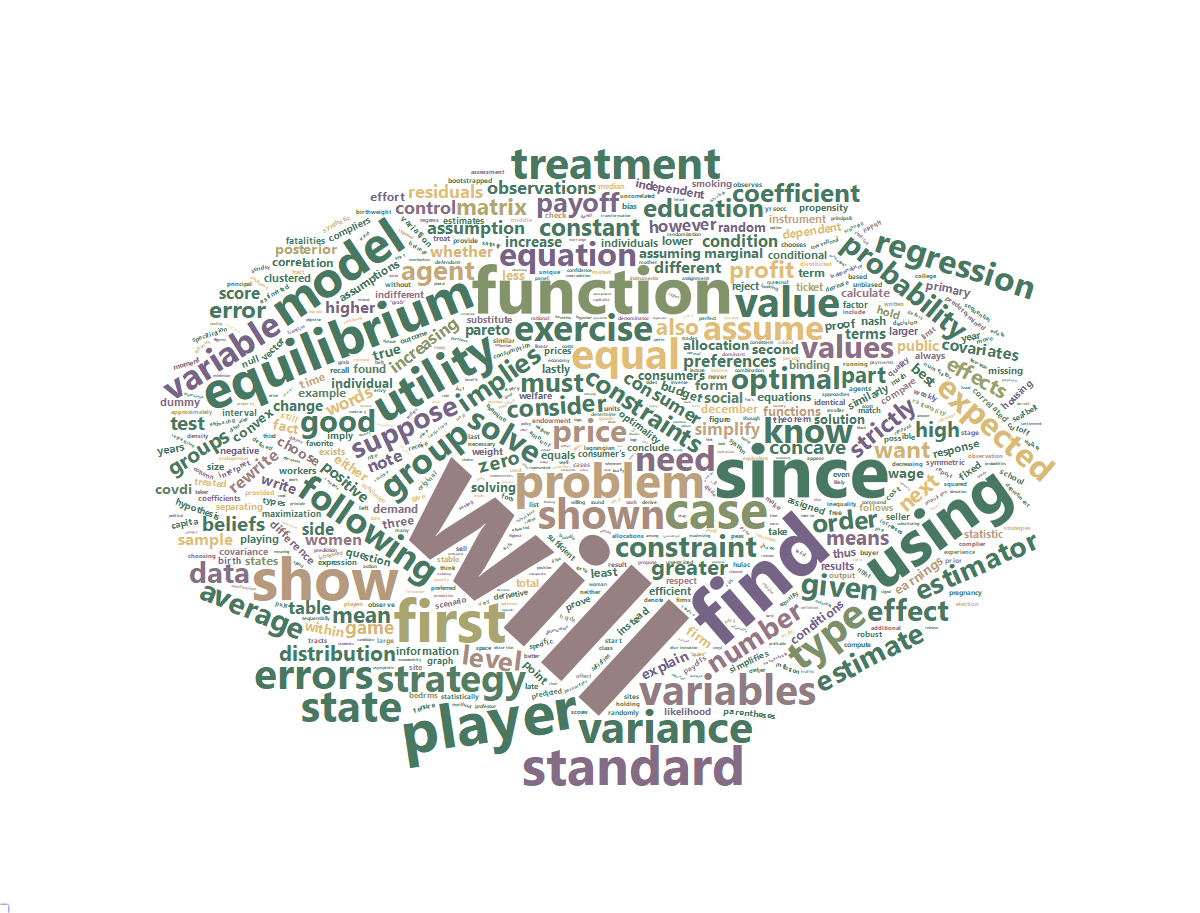
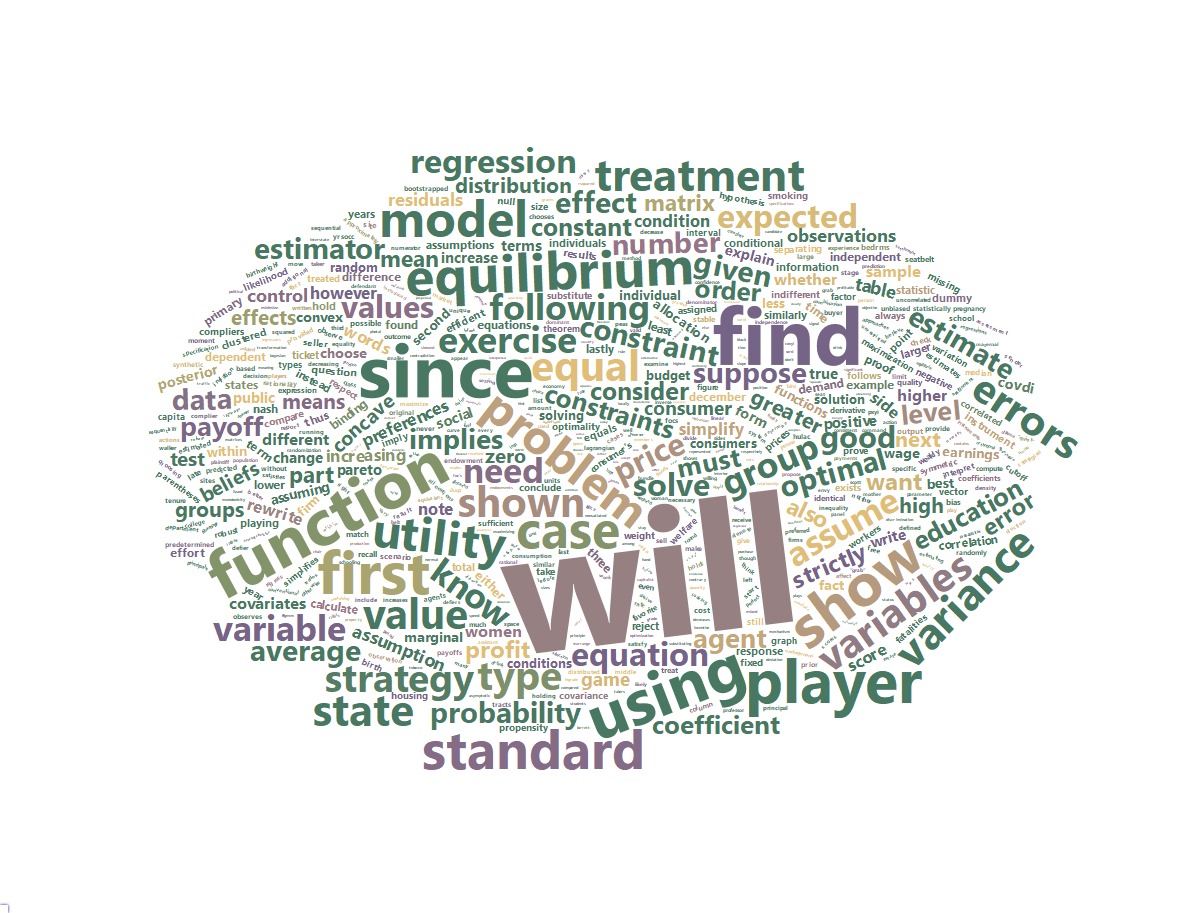
Minor Typesetting

Changed region(s): [[0.1233, 0.1533, 0.8942, 0.8587]]

diff --git a/problemsets.html b/problemsets.html
@@ -318,9 +318,11 @@ $(document).ready(function () {
 
 
 <p> </p>
-<div id="visualizing-problemsets" class="section level2">
-<h2>Visualizing Problemsets</h2>
-<p>The following figures are visualizations of every single problemset I poured over while completing the Harris PhD core curriculum, starting with a wordcloud! If you hover over a word, you can see exactly how many times I typed that specific word into LaTex during the first year of my program. I was a little suprised not to see concavity featured more prominently considering how much time I spent checking second order conditions.</p>
+<div id="a-day-in-the-life-of-a-first-year-harris-phd" class="section level2">
+<h2>A Day in the Life of a First Year Harris PhD</h2>
+<p>The following figures are visualizations of every single problemset I poured over while completing the Harris PhD core curriculum. Specifically, these are the problemsets I worked through while studying Micreconomics, Econometrics, and Game Theory.</p>
+<p>First up is a wordcloud! If you hover over a word, you can see exactly how many times I typed that specific word into LaTex during the first year of my program. For example, I typed the word “function” 188 times!</p>
+<p>I was a little suprised not to see concavity featured more prominently considering how much time I spent checking second order conditions.</p>
 <div id="htmlwidget-1c975e2099b290371eff" style="width:672px;height:480px;" class="wordcloud2 html-widget"></div>
 <script type="application/json" data-for="htmlwidget-1c975e2099b290371eff">{"x":{"word":["lagrangian","consumer’s","problem","price","equals","optimality","constraints","shown","solve","will","need","consider","cases","consumer","case","must","equal","zero","simplify","since","implies","solving","budget","constraint","conclude","whenever","ppmc","group","members","december","exercise","goods","across","consumers","utility","function","logt","logq","amount","social","endowment","units","suppose","preferences","represented","welfare","following","form","weighted","weight","greater","optimal","endowments","examine","find","allocation","know","functions","undefined","also","locally","nonsatiated","increasing","lastly","concave","focs","necessary","sufficient","system","equations","pareto","allocations","economy","assume","good","walrasian","equilibrium","first","demand","note","prices","policy","rather","bundle","assigned","efficient","willing","figure","list","well","describe","hint","every","consumption","trade","theorem","choice","least","choices","makes","second","allocated","among","three","maximize","individual","respectively","total","identical","either","positive","binding","solution","order","setting","derivative","respect","equation","substitute","value","original","words","characterize","found","maximizing","equivalent","strictly","upon","highest","divide","look","imply","true","values","relationship","elements","determine","means","inequality","never","similar","exists","similarly","part","ratio","make","contradiction","take","example","question","different","women","show","benefit","result","receive","preferred","woman","want","scenario","propose","choose","favorite","accept","stable","match","neither","round","prove","unique","denote","given","prefer","less","outcome","follows","assuming","reject","already","last","thus","number","shows","change","agent","agents","position","side","using","results","used","instead","give","times","recall","production","hulac","peas","workers","stay","away","work","unit","capitalist","profit","wage","indifferent","purchase","addition","just","firm","even","define","holds","proof","contrary","individuals","time","though","finally","house","think","finding","step","possible","running","maximization","derive","firstorder","optimum","foc’s","optimization","equality","quantity","fact","inverse","lecture","valorem","expression","market","increase","showed","received","start","next","sides","specific","terms","compare","previous","looking","firms","level","revenue","whether","write","marginal","costs","constant","decreasing","increases","higher","introduced","output","cost","decreases","class","principle","perfect","discrimination","still","seller","linear","buyer","income","conditions","interior","observe","bind","rule","normal","explain","monotonic","much","high","without","rewrite","sets","type","sell","assumptions","ticket","combination","model","distortion","quality","traveler","incentive","lower","unrestricted","mean","however","types","difference","condition","rearrange","include","rationality","variables","appear","weakly","slack","satisfy","satisfies","<U+2202>uqz","left","hand","convex","slope","defined","assumption","nash","factor","curve","approaches","alternative","term","full","information","lowest","symmetric","best","response","game","produce","definition","space","conditional","point","maximum","decrease","public","provided","provide","substituting","simplifies","free","mechanism","tion","payments","larger","calculate","dominant","strategy","report","payoff","wants","payoffs","negative","pivotal","playing","players","distributed","objective","player","hold","selection","uniformly","interval","graph","always","middle","population","education","effect","bayesian","offer","probability","separating","beliefs","better","equilibria","profitable","earn","expected","affect","believe","earnings","person","identify","rate","denominator","numerator","trades","interpret","interpreted","meaning","envy","else","vector","transformation","complete","transitive","mixed","independence","treat","rational","loss","random","variable","quadratic","decision","squared","large","clearly","matrix","otherwise","period","answer","consistent","table","check","many","parameter","distribution","vary","chooses","states","apply","property","right","third","line","analysis","problems","estimates","estimate","effects","covariance","squares","estimator","regressors","fixed","within","groups","unbiased","observations","variance","dependent","heteroskedasticity","bias","instruments","stage","endogenous","variation","written","matrices","valid","coefficients","predicted","contains","estimating","independent","limit","treatment","average","treated","covariates","assignment","untreated","control","monotonicity","regressor","deviation","idempotent","correlated","instrument","correlation","coefficient","data","conventional","default","clustered","sizes","inflation","compared","size","sample","smaller","errors","observation","uncorrelated","standard","regression","black","higrade","obtain","robust","panel","based","test","error","experience","candidate","regress","additional","quarterly","holding","statistically","confidence","command","hypothesis","approximately","statistic","estimated","freedom","null","compute","residuals","density","orthogonal","likelihood","likely","play","students","observed","prior","posterior","samples","credible","median","probabilities","late","briefly","compliers","complier","defier","defiers","observable","randomization","status","containing","randomly","option","minimize","households","column","household","added","birth","year","school","takers","taker","evidence","dataset","asymptotic","regressions","housing","tract","site","state","dummy","tracts","rsquared","sites","score","scores","close","cutoff","yrsocc","bedrms","parentheses","diploma","bins","specification","specifications","significant","primary","don’t","matching","predetermined","vard","varxi","covdi","covd","covxi","covyi","propensity","pxyi","maternal","smoking","infant","missing","tobacco","drink","birthweight","pregnancy","grams","years","mother","method","observing","bootstrapped","weak","belt","traffic","fatalities","capita","seatbelt","seat","college","inches","interstate","speed","moment","choosing","<U+03B8>^gmm","synthetic","preperiod","grade","prediction","schooling","move","disney","signal","actions","observes","action","grab","”grab”","plays","assistant","professor","department","chair","tenure","effort","pooling","assessment","strategies","sequential","sequentially","hungry","”squawk”","”quiet”","defendant","plaintiff","settlement","sender","principal","principal’s","lizard","release","election","wisconsin","scott","walker","barrett","rights","political","estate"],"freq":[18,26,137,91,31,27,75,119,90,511,99,72,21,54,147,78,118,57,48,210,79,37,38,84,28,12,11,102,12,33,106,15,9,38,136,188,10,10,18,42,19,20,81,47,12,29,101,39,11,29,63,85,12,18,226,40,99,37,12,66,11,10,49,33,56,20,16,24,16,34,42,17,13,100,88,12,150,171,34,48,27,11,9,14,29,32,15,24,21,14,9,10,14,18,9,25,12,33,9,11,39,12,10,33,17,36,11,32,22,38,43,35,38,74,14,22,25,94,29,120,20,47,9,35,11,15,67,9,10,13,10,28,43,92,10,9,13,60,16,20,20,28,31,65,13,20,10,28,33,32,46,45,169,11,20,16,16,13,68,23,13,41,24,9,24,23,17,15,27,17,16,85,12,37,21,29,40,30,9,19,35,83,14,43,77,19,10,49,182,30,14,32,20,11,23,10,19,18,27,10,9,15,13,10,67,39,27,11,9,14,38,23,11,16,34,11,31,35,14,12,9,16,9,9,24,16,26,14,12,12,12,10,18,11,40,13,14,9,23,16,43,11,11,21,62,13,21,42,27,10,14,16,78,10,46,44,39,15,72,17,17,45,15,24,23,11,17,12,14,10,26,25,13,21,15,38,11,21,10,12,10,41,9,20,59,21,49,11,116,20,34,31,13,143,12,23,9,10,33,13,66,47,25,34,49,11,17,20,119,13,22,9,16,16,14,16,11,40,10,17,51,33,25,14,14,9,34,9,32,9,22,40,32,53,11,12,16,31,30,9,18,42,19,20,10,25,19,10,11,13,31,35,13,112,16,76,9,20,27,12,31,16,17,11,174,30,10,9,25,25,29,18,15,73,86,11,9,82,27,57,18,10,10,12,95,16,16,39,14,9,17,15,16,14,22,9,10,13,12,28,12,10,12,11,15,22,15,9,36,102,9,16,17,19,9,65,14,12,11,15,51,24,13,13,60,14,20,33,9,11,16,18,9,9,9,25,81,61,29,9,83,12,27,41,60,21,51,128,33,9,22,14,19,13,26,16,10,13,23,21,11,13,35,20,128,86,27,45,14,9,50,12,9,12,9,25,31,33,75,81,14,11,30,11,17,12,27,46,13,119,17,16,153,96,10,10,9,22,14,19,56,67,18,11,18,18,9,17,19,15,15,25,18,30,19,9,29,20,51,16,10,29,14,15,12,9,19,40,9,9,23,10,22,10,29,17,16,15,10,13,12,12,19,12,12,10,20,9,13,25,27,23,11,18,9,9,10,14,28,16,24,125,30,19,12,19,49,18,9,22,20,24,25,11,13,17,10,10,34,11,9,19,10,12,40,10,9,11,29,17,14,29,12,27,12,10,16,19,10,30,14,13,9,21,11,15,12,25,25,24,13,16,12,10,11,21,17,10,20,9,11,13,14,16,10,12,16,19,14,13,14,10,13,13,18,10,19,35,12,17,16,18,14,9,9,13,15,13,12,16,18,14,10,11,18,9,14,17,10,10,10,14],"fontFamily":"Segoe UI","fontWeight":"bold","color":["#E0BE79","#766487","#92996D","#D1B17A","#497862","#B5AA72","#748C68","#7D6886","#497862","#A6A370","#497862","#497862","#728B68","#8A7584","#497862","#497862","#497862","#497862","#497862","#497862","#497862","#497862","#497862","#917286","#497862","#497862","#497862","#497862","#766487","#ABA570","#796586","#7A6686","#E0BE79","#766487","#497862","#E0BE79","#497862","#497862","#497862","#497862","#497862","#497862","#497862","#497862","#497862","#497862","#497862","#6A8767","#497862","#4F7B63","#497862","#8B6F86","#497862","#E0BE79","#497862","#497862","#497862","#497862","#766487","#806D85","#846B86","#497862","#497862","#497862","#CAB475","#836F85","#517B63","#497862","#DAB979","#497862","#C5A77C","#497862","#A2A16F","#766487","#8C7784","#857184","#497862","#766487","#497862","#497862","#497862","#497862","#CDAE7B","#E0BE79","#E0BE79","#766487","#497862","#497862","#E0BE79","#766487","#497862","#5B8064","#497862","#497862","#806A86","#C0AF74","#997786","#497862","#497862","#786586","#497862","#497862","#E0BE79","#927386","#497862","#766487","#86946B","#E0BE79","#497862","#766487","#497862","#497862","#497862","#497862","#497862","#497862","#E0BE79","#988182","#497862","#497862","#497862","#497862","#497862","#9A7886","#8A6F86","#497862","#E0BE79","#497862","#497862","#497862","#766487","#497862","#766487","#A88E80","#867284","#497862","#497862","#768C68","#766487","#497862","#497862","#786686","#497862","#E0BE79","#497862","#497862","#497862","#597F64","#847085","#D0B07B","#E0BE79","#497862","#8E986C","#497862","#497862","#B1A871","#E0BE79","#497862","#C2B074","#8F7186","#497862","#497862","#BC9F7D","#497862","#4C7962","#497862","#766487","#497862","#497862","#497862","#497862","#497862","#A7A470","#497862","#957F82","#497862","#E0BE79","#907286","#766487","#497862","#5E8265","#497862","#766487","#9A7786","#E0BE79","#497862","#497862","#497862","#766487","#497862","#766487","#497862","#497862","#497862","#497862","#497862","#497862","#497862","#9C7986","#E0BE79","#CFB676","#766487","#E0BE79","#978082","#497862","#497862","#7C6986","#497862","#8E7186","#DEBD78","#7F6986","#497862","#497862","#497862","#766487","#E0BE79","#8F7286","#497862","#497862","#497862","#E0BE79","#497862","#766487","#497862","#497862","#8D7883","#786586","#766487","#E0BE79","#766487","#DEBC79","#497862","#497862","#497862","#497862","#497862","#497862","#497862","#497862","#776486","#766486","#497862","#E0BE79","#497862","#497862","#6D8967","#806986","#766487","#796686","#497862","#B4987E","#BAAC73","#E0BE79","#776486","#E0BE79","#B8AB72","#E0BE79","#E0BE79","#497862","#B6AA72","#497862","#497862","#DDBC78","#766487","#497862","#497862","#497862","#497862","#497862","#BA9D7E","#497862","#D7B67A","#766487","#497862","#497862","#497862","#766487","#497862","#497862","#497862","#497862","#497862","#497862","#497862","#497862","#E0BE79","#497862","#497862","#497862","#497862","#497862","#8A6F86","#497862","#497862","#497862","#E0BE79","#497862","#927386","#766487","#856C86","#497862","#497862","#628365","#497862","#8C7086","#497862","#497862","#497862","#497862","#497862","#497862","#E0BE79","#E0BE79","#6F8967","#497862","#E0BE79","#497862","#766487","#497862","#7E906A","#497862","#E0BE79","#497862","#497862","#497862","#497862","#D6B57A","#D2B27A","#497862","#E0BE79","#497862","#497862","#497862","#497862","#7C8F69","#E0BE79","#497862","#DBBA79","#497862","#497862","#497862","#776586","#497862","#497862","#497862","#497862","#CAAB7B","#7D6A86","#497862","#937486","#497862","#766487","#7B6786","#497862","#7E6886","#497862","#E0BE79","#497862","#497862","#E0BE79","#497862","#497862","#766486","#497862","#CCAD7B","#E0BE79","#E0BE79","#608265","#497862","#497862","#766487","#E0BE79","#766487","#497862","#856C86","#E0BE79","#E0BE79","#7D6886","#E0BE79","#497862","#BDAE73","#497862","#537C63","#497862","#7E6B85","#D6B977","#927386","#497862","#E0BE79","#678566","#497862","#766487","#497862","#497862","#766487","#497862","#796786","#497862","#497862","#497862","#497862","#497862","#497862","#E0BE79","#497862","#766487","#497862","#497862","#877384","#E0BE79","#497862","#497862","#9D7986","#497862","#766487","#497862","#AA9080","#497862","#497862","#A08881","#766487","#896E86","#497862","#E0BE79","#497862","#497862","#497862","#9A9D6E","#766487","#9B8482","#D3B37A","#967586","#497862","#CCB476","#B5997E","#497862","#497862","#4E7A62","#497862","#A28A81","#8F7286","#497862","#497862","#497862","#8B6F86","#497862","#497862","#E0BE79","#497862","#497862","#6C8867","#497862","#497862","#989D6E","#C4A67C","#497862","#497862","#B79B7E","#497862","#497862","#A58B80","#497862","#497862","#497862","#816A86","#497862","#AD927F","#497862","#497862","#766487","#497862","#638466","#497862","#E0BE79","#947486","#497862","#497862","#497862","#967586","#497862","#497862","#497862","#497862","#497862","#836B86","#497862","#497862","#497862","#766487","#497862","#497862","#8D7086","#766487","#497862","#DBBB78","#497862","#497862","#E0BE79","#766487","#E0BE79","#E0BE79","#C8A97C","#766487","#766487","#979C6D","#497862","#497862","#939A6D","#497862","#497862","#497862","#497862","#497862","#497862","#766487","#947486","#497862","#806986","#497862","#846C86","#766487","#D8BA77","#497862","#497862","#917386","#9D7986","#497862","#497862","#497862","#E0BE79","#497862","#947E82","#497862","#497862","#497862","#9C8581","#497862","#497862","#816A86","#497862","#836B86","#766487","#497862","#497862","#497862","#E0BE79","#497862","#497862","#766487","#A98F80","#E0BE79","#497862","#886E86","#497862","#497862","#C6A87C","#766487","#866D86","#9FA06F","#D9B879","#497862","#658566","#497862","#C2A47C","#497862","#497862","#497862","#497862","#967686","#497862","#DFBD79","#766487","#E0BE79","#497862","#497862","#567E64","#7C6786","#AF947F","#497862","#766487","#C5B175","#987786","#5D8165","#497862","#826A86","#497862","#497862","#497862","#766487","#B0957F","#E0BE79","#A68C80","#497862","#C9B375","#497862","#497862","#A38B80","#798E69","#E0BE79","#497862","#497862","#E0BE79","#497862","#766487","#497862","#83936A","#E0BE79","#E0BE79","#497862","#497862","#497862","#826A86","#497862","#497862","#C1A37D","#D4B877","#BB9E7D","#497862","#D4B47A","#497862","#497862","#497862","#E0BE79","#497862","#497862","#D3B877","#AC917F","#497862","#AEA771","#497862","#497862","#497862","#497862","#9E8681","#497862","#497862","#959B6D","#C9AA7B","#497862","#C3A57C","#497862","#E0BE79","#927C83","#497862","#766487","#497862","#497862","#497862","#497862","#766487","#B3977E","#766487","#497862","#497862","#AE937F","#497862","#497862","#497862","#497862","#497862","#497862","#497862","#E0BE79","#497862","#497862","#497862","#907A83","#497862","#497862","#497862","#937D83","#497862","#90996C","#E0BE79","#A9A470","#796586","#497862","#766487","#766487","#497862","#917B83","#497862","#497862","#81926A","#766487","#497862","#497862","#497862","#E0BE79","#7B6686","#E0BE79","#497862","#497862","#497862","#497862","#497862","#B1967F","#E0BE79","#977686","#497862","#497862","#497862","#497862","#497862","#497862","#497862","#766487","#766487","#766486","#497862","#497862","#497862","#497862","#896E86","#88956B","#89966B","#497862","#E0BE79","#497862","#497862","#ACA671","#497862","#C4B174","#826E85","#497862","#497862","#497862","#C7B275","#497862","#497862","#497862","#497862","#8E7983","#497862","#BBAD73","#E0BE79","#9F8781","#497862","#497862","#497862","#497862","#497862","#876D86","#497862","#497862","#497862","#E0BE79","#497862","#497862","#E0BE79","#497862","#E0BE79","#766487","#A1A06F","#CEB576","#497862","#718A68","#497862","#766487","#8C7086","#E0BE79","#E0BE79","#E0BE79","#977686","#E0BE79","#497862","#497862","#497862","#497862","#A78D80","#497862","#497862","#497862","#497862","#766487","#9A7886","#766487","#497862","#497862","#497862","#778D69","#497862","#8B966C","#497862","#766487","#497862","#497862","#766487","#497862","#497862","#80916A","#766487","#497862","#766487","#8B7684","#497862","#E0BE79","#497862","#766487","#497862","#497862","#497862","#497862","#497862","#497862","#B3A972","#497862","#497862","#997786","#497862","#497862","#766487","#587F64","#8D7186","#497862","#497862","#CBAC7B","#E0BE79","#766487","#497862","#866C86","#766487","#E0BE79","#7F6986","#766487","#A4A26F","#497862","#957586","#497862","#497862","#497862","#766487","#497862","#497862","#497862","#497862","#497862","#9E7A86","#B0A771","#497862","#E0BE79","#497862","#497862","#497862","#497862","#497862","#497862","#897484","#766487","#7B8F69","#497862","#CFAF7B","#9A8382","#497862","#7C6786","#9C7986","#766487","#D8B779","#497862","#497862","#497862","#7B6886","#497862","#766487","#497862","#497862","#D1B776","#497862","#9C9E6E","#497862","#497862","#E0BE79","#DDBB79","#876D86","#497862","#497862","#B89C7E","#876D86","#766487","#497862","#497862","#497862","#9D9F6E","#766487","#497862","#497862","#A18981","#497862","#9B7886","#497862","#907286","#497862","#7C6786","#9B7886","#497862","#766487","#766487","#886E86","#497862","#E0BE79","#8E7186","#766487","#497862","#497862","#497862","#BFAE74","#497862","#497862","#E0BE79","#8D976C","#497862","#766487","#497862","#497862","#766487","#497862","#E0BE79","#497862","#497862","#497862","#497862","#497862","#497862","#497862","#BFA27D","#4A7862","#BEA17D","#766487","#766487","#846B86","#497862","#497862","#497862","#497862","#987686","#E0BE79","#7E6886","#497862","#937486","#E0BE79","#766487","#E0BE79","#766487","#957586","#497862","#497862","#766487","#497862","#497862","#497862","#497862","#8B7086","#497862","#497862","#BDA07D","#497862","#497862","#D9BB78","#497862","#497862","#497862","#497862","#497862","#497862","#497862","#7A6686","#766487","#998282","#688666","#E0BE79","#497862","#497862","#7F6C85","#497862","#497862","#497862","#497862","#497862","#497862","#497862","#E0BE79","#B69A7E","#497862","#497862","#497862","#497862","#E0BE79","#497862","#497862","#547D63","#497862","#497862","#497862","#E0BE79","#497862","#497862","#497862","#497862","#85936B","#497862"],"minSize":0,"weightFactor":0.352250489236791,"backgroundColor":"white","gridSize":0,"minRotation":-0.785398163397448,"maxRotation":0.785398163397448,"shuffle":true,"rotateRatio":0.4,"shape":"circle","ellipticity":0.65,"figBase64":null,"hover":null},"evals":[],"jsHooks":{"render":[{"code":"function(el,x){\n                        console.log(123);\n                        if(!iii){\n                          window.location.reload();\n                          iii = False;\n\n                        }\n  }","data":null}]}}</script>
 </div>

diff --git a/research.html b/research.html
@@ -315,15 +315,18 @@ $(document).ready(function () {
 <p> </p>
 <div id="works-in-progress" class="section level2">
 <h2>Works In Progress</h2>
-<div id="measuring-inequality-and-intersectionality-in-representation-evidence-from-childrens-books" class="section level3">
-<h3>Measuring inequality and intersectionality in representation: Evidence from children’s books</h3>
+<p> </p>
+<div id="measuring-inequality-and-intersectionality-in-representation-evidence-from-childrens-books" class="section level4">
+<h4>Measuring inequality and intersectionality in representation: Evidence from children’s books</h4>
 <p><em>with Anjali Adukia, Alex Eble, H. Birali Runesha, and Teodora Szasz</em></p>
+<p> </p>
 </div>
-<div id="the-effect-of-statewide-articulation-agreements-on-community-college-student-outcomes" class="section level3">
-<h3>The Effect of Statewide Articulation Agreements on Community College Student Outcomes</h3>
+<div id="the-effect-of-statewide-articulation-agreements-on-community-college-student-outcomes" class="section level4">
+<h4>The Effect of Statewide Articulation Agreements on Community College Student Outcomes</h4>
+<p> </p>
 </div>
-<div id="allocating-grants-under-scarcity-evidence-from-illinois-monetary-assistance-program" class="section level3">
-<h3>Allocating Grants Under Scarcity: Evidence from Illinois Monetary Assistance Program</h3>
+<div id="allocating-grants-under-scarcity-evidence-from-illinois-monetary-assistance-program" class="section level4">
+<h4>Allocating Grants Under Scarcity: Evidence from Illinois Monetary Assistance Program</h4>
 </div>
 </div>
 

diff --git a/index.html b/index.html
@@ -315,10 +315,10 @@ $(document).ready(function () {
 <p> </p>
 <div id="about-me" class="section level2">
 <h2>About Me</h2>
-Emileigh Harrison is a PhD student at the University of Chicago Harris School of Public Policy where her doctoral studies are focused on <strong>education and inequality</strong>. Her research interests include non-traditional education paths such as community college and homeschooling. Specifically she is interested in the impact of stricter homeschooling regulations on health and academic outcomes for homeschooled children. She is also a doctoral fellow at the Center for Data and Computing (CDAC).
 <center>
-<img src="files/circ_desk.png" style="width:60%">
+<img src="files/circ_desk.png" style="width:50%">
 </center>
+<p>Emileigh Harrison is a PhD student at the University of Chicago Harris School of Public Policy where her doctoral studies are focused on education and inequality. Her research interests include non-traditional education paths such as community college and homeschooling. Specifically she is interested in the impact of stricter homeschooling regulations on health and academic outcomes for homeschooled children. She is also a doctoral fellow at the Center for Data and Computing (CDAC).</p>
 <p>   </p>
 </div>
 <div id="personal-timeline" class="section level2">

diff --git a/visualizations.html b/visualizations.html
@@ -312,10 +312,10 @@ $(document).ready(function () {
 </div>
 
 
-<div id="uchicago-phd-problemsets" class="section level2">
-<h2>UChicago PhD Problemsets</h2>
-<p><a href="problemsets.html"><img src="files/hw_wc.png" alt="Problemset Visualizations" /></a></p>
-</div>
+<p> </p>
+<center>
+<a href="problemsets.html"><strong>A Day in the Life of a First Year Harris PhD</strong></a> <a href="problemsets.html"><img src="files/hw_wc.png" alt="Problemset Visualizations" style="width:50.0%" /></a>
+</center>
 
 
 
